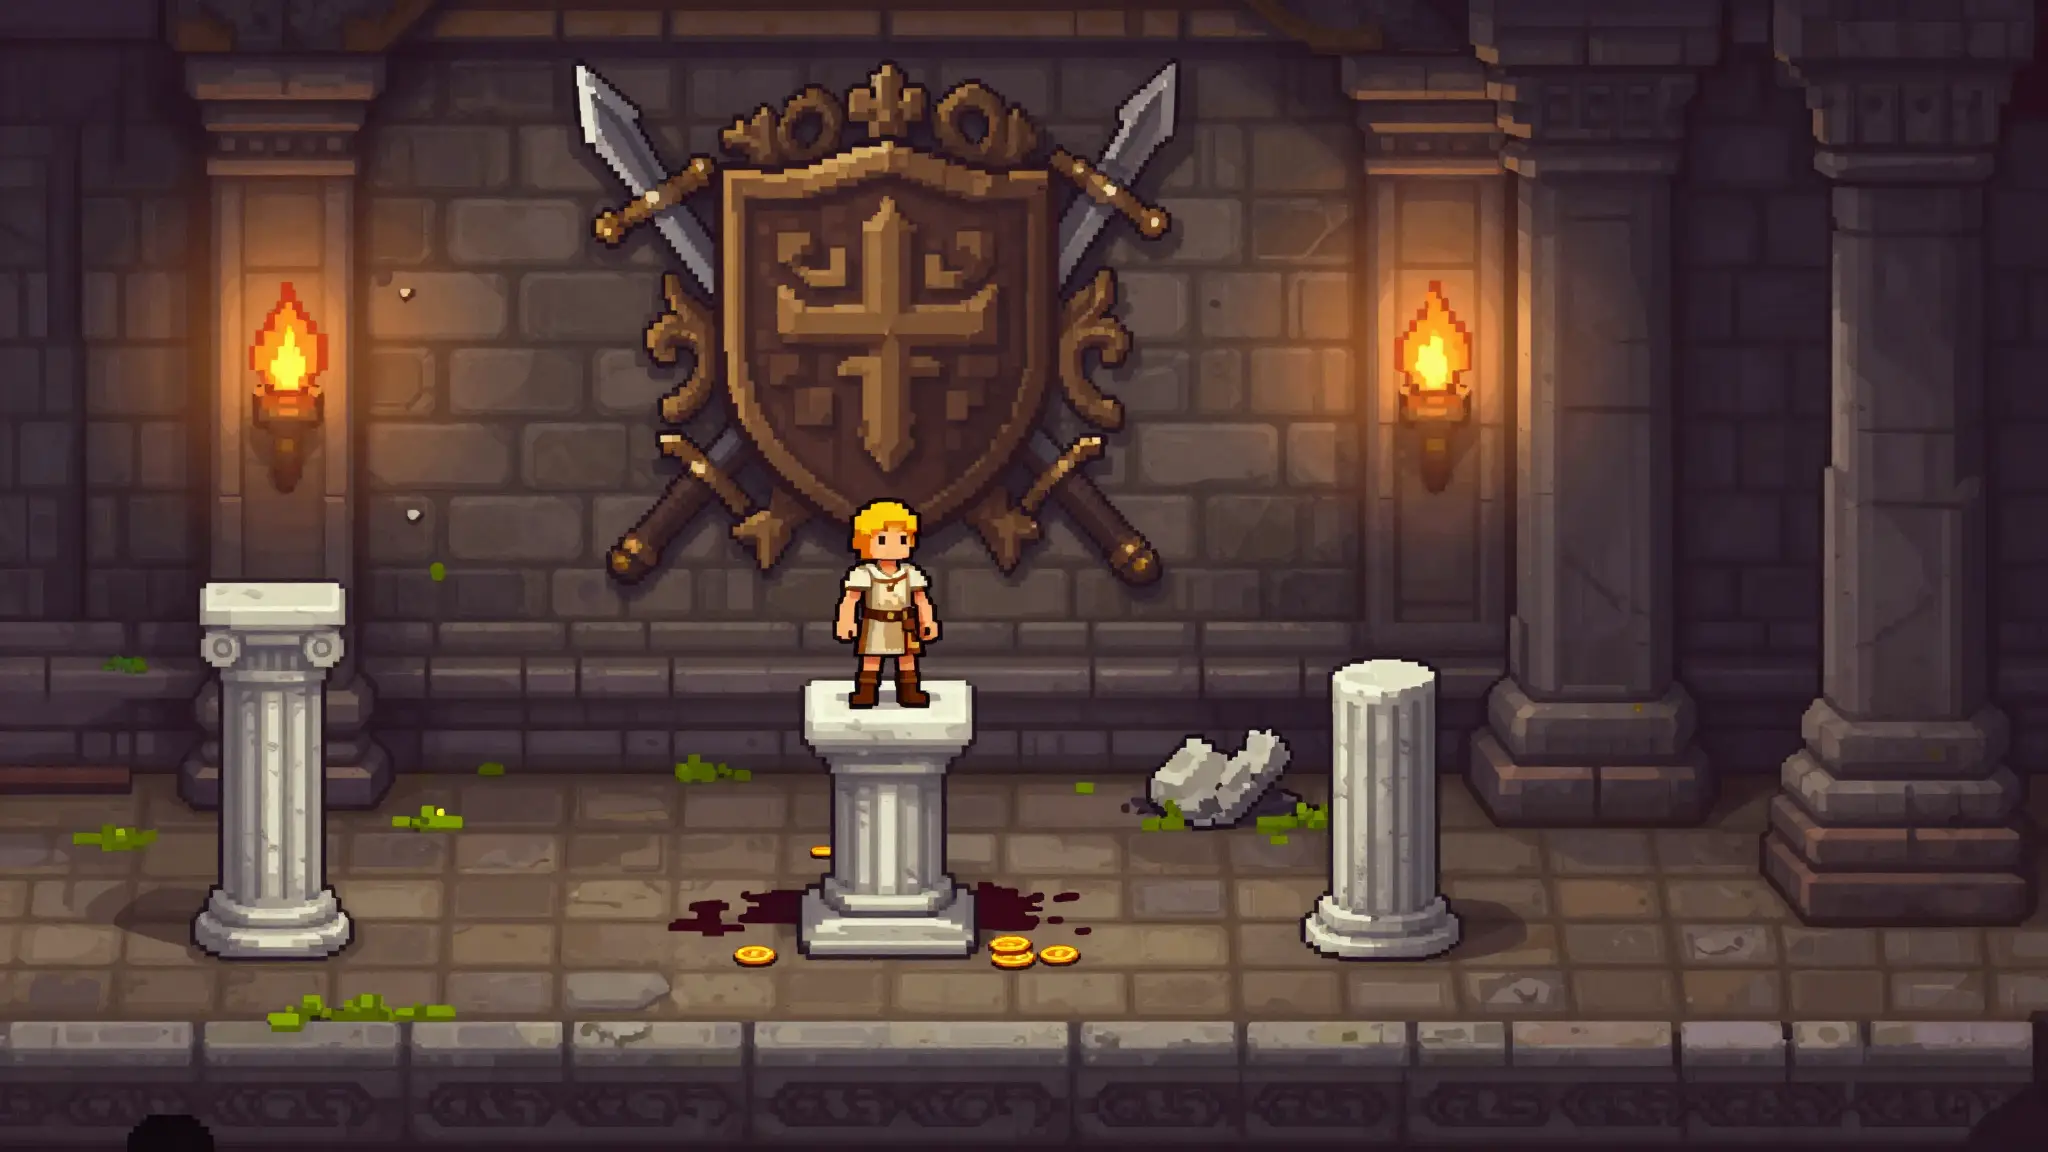
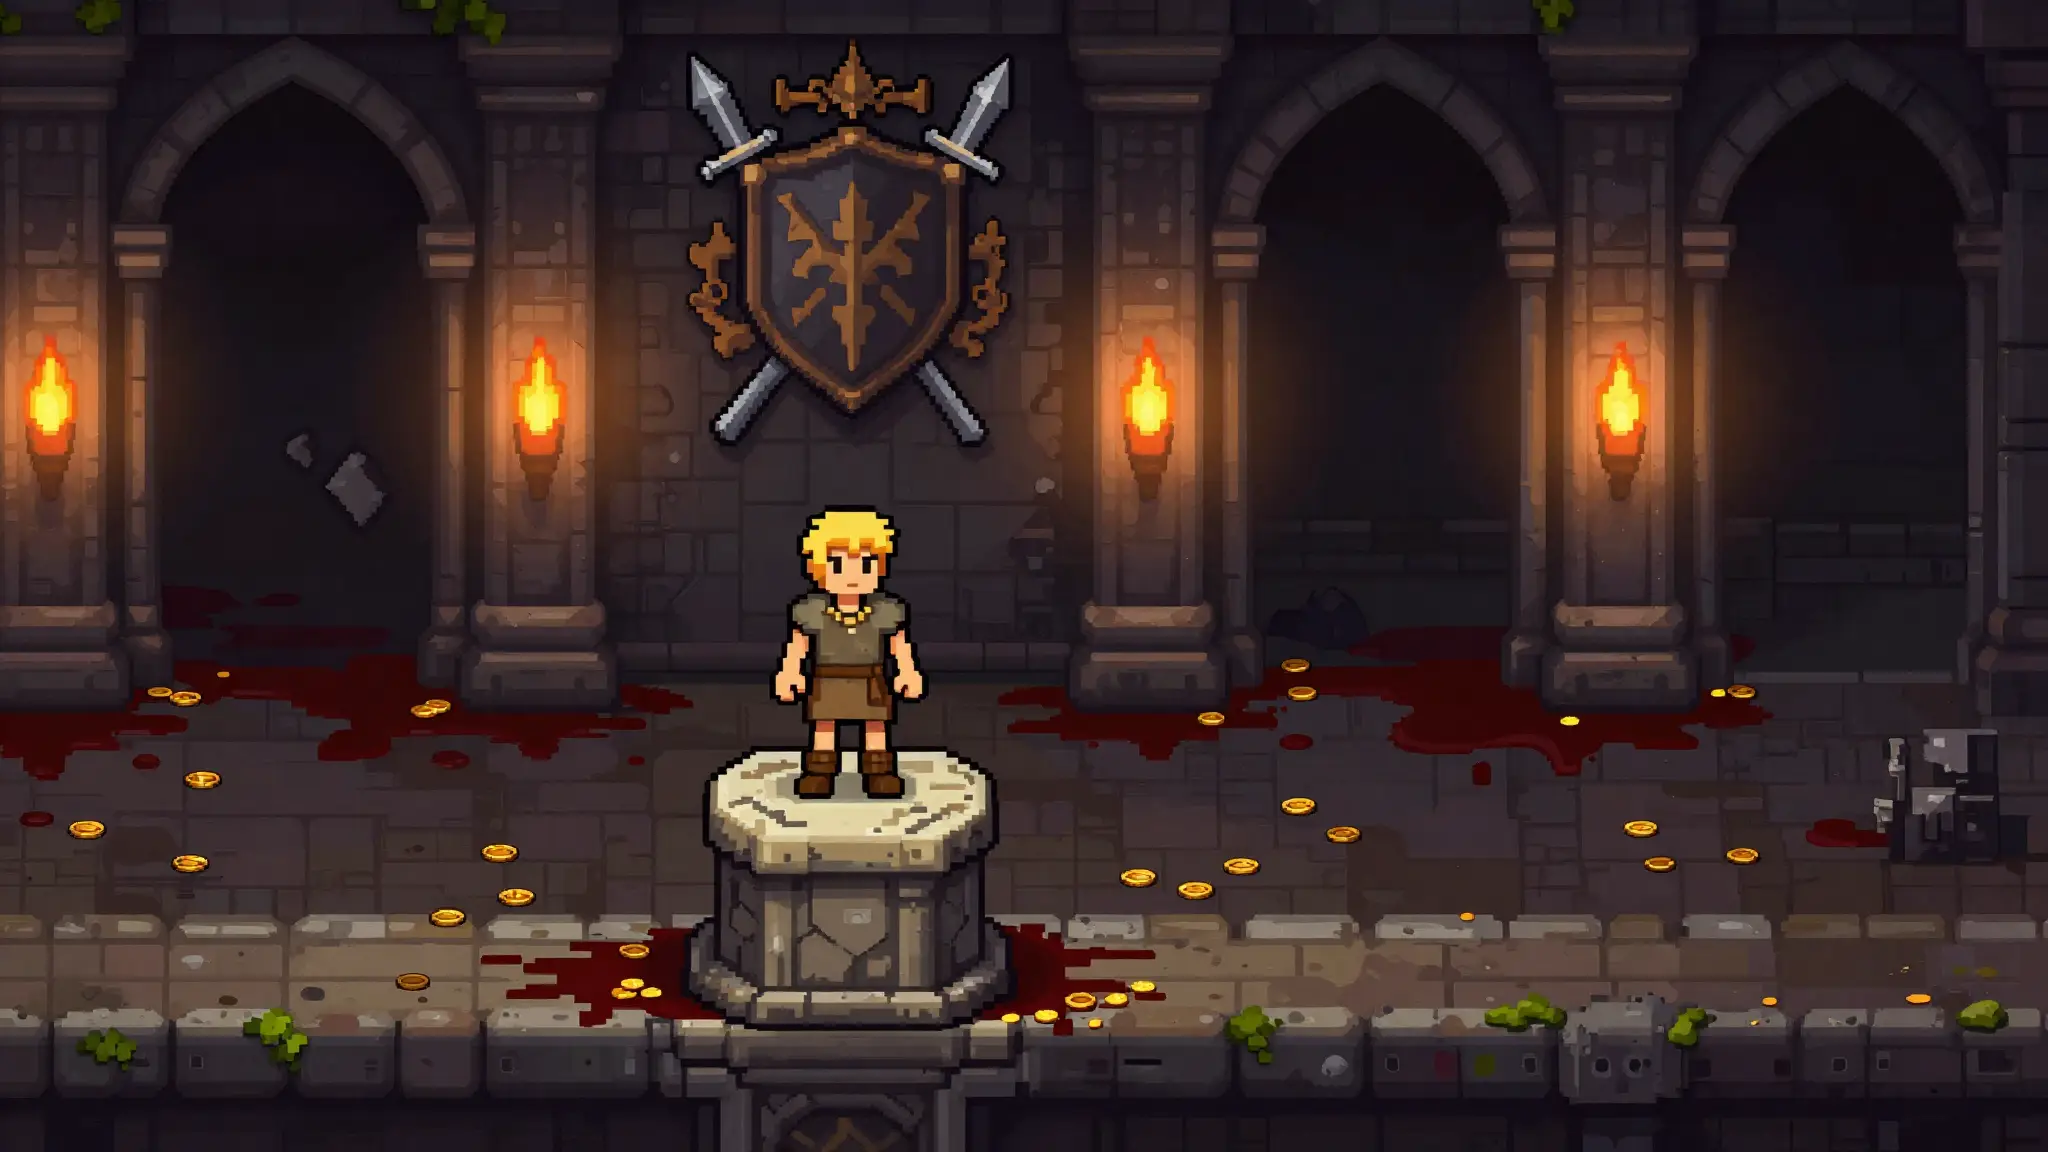
Scene update: ruined arches in bg, muted pedestal, more blood + gold; drop center CTA
- Remove the centre Sign-in button (kept the top-right one)
- Background now scattered broken/ruined arches (not 3 standing columns)
- Pedestal muted/aged (not bright white); hero larger, flatter perspective
- More blood splatters in several spots, more scattered gold; no greenery

diff --git a/art/cmp.html b/art/cmp.html
@@ -1,9 +1,10 @@
 <!DOCTYPE html><html><head><meta charset="utf-8"><style>
-body{margin:0;background:#222;display:flex;flex-direction:column;gap:5px;padding:5px}
+body{margin:0;background:#222;display:grid;grid-template-columns:1fr 1fr;gap:5px;padding:5px}
 figure{margin:0;position:relative}img{width:100%;display:block}
 figcaption{position:absolute;top:5px;left:5px;color:#fff;font:bold 18px monospace;background:#000a;padding:1px 7px}
 </style></head><body>
-<figure><img src="../assets/w1.webp"><figcaption>w1</figcaption></figure>
-<figure><img src="../assets/w2.webp"><figcaption>w2</figcaption></figure>
-<figure><img src="../assets/w3.webp"><figcaption>w3</figcaption></figure>
+<figure><img src="../assets/x1.webp"><figcaption>x1</figcaption></figure>
+<figure><img src="../assets/x2.webp"><figcaption>x2</figcaption></figure>
+<figure><img src="../assets/x3.webp"><figcaption>x3</figcaption></figure>
+<figure><img src="../assets/x4.webp"><figcaption>x4</figcaption></figure>
 </body></html>

diff --git a/cmp-shot.js b/cmp-shot.js
@@ -1,5 +1,5 @@
 const puppeteer=require('puppeteer-core');const path=require('path');
 (async()=>{const b=await puppeteer.launch({executablePath:'/root/.cache/puppeteer/chrome/linux-131.0.6778.204/chrome-linux64/chrome',headless:'new',args:['--no-sandbox','--disable-setuid-sandbox']});
-const p=await b.newPage();await p.setViewport({width:900,height:1150,deviceScaleFactor:1});
+const p=await b.newPage();await p.setViewport({width:1300,height:760,deviceScaleFactor:1});
 await p.goto('file://'+path.resolve(__dirname,'art/cmp.html'),{waitUntil:'networkidle2'});
 await new Promise(r=>setTimeout(r,500));await p.screenshot({path:'cmp.png',fullPage:true});await b.close();console.log('ok');})();

diff --git a/index.html b/index.html
@@ -63,8 +63,6 @@
     </div>
 
     <div class="plate" id="nameplate"><span>Guest</span><span class="plate__dl">⬇</span></div>
-
-    <button class="btn btn--gold btn--cta" type="button" data-signin>Sign in to play</button>
   </section>
 
   <!-- brand + support -->
